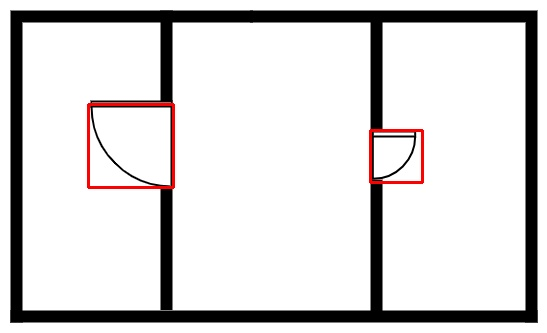
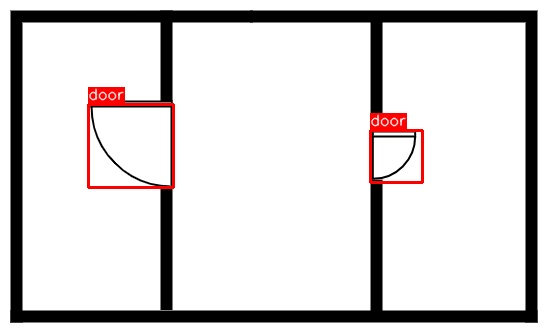
Add class name on image

Changed region(s): [[0.1554, 0.2402, 0.2486, 0.3303], [0.6527, 0.3303, 0.7459, 0.3904]]

diff --git a/fengshui/assessment.py b/fengshui/assessment.py
@@ -42,15 +42,17 @@ OBSTACLE_THRESHOLD = 0.5 # 50%
 from overlap.overlap import overlap_rate
 OVERLAP_THRESHOLD = 0.5 # 50% overlap range
 
+# 這裡應該要是 list 對應 oto result 主程式要再修正
 def show_analy_results(result: Dict[str, List]):
 
-    # items, rate, full_coverage
     for res in result['overlap_result']:
-       print(res)
+        # Print the names of the two overlapping items
+        print("Item 1 name: {}, Item 2 name: {}".format(res['items'][0].name, res['items'][1].name))
 
     # items, points_line, bin_image_np_arrary, rate
     for res in result['obstacle_result']:
-       print(res)
+        print("Item 1 name: {}, Item 2 name: {}".format(res['items'][0].name, res['items'][1].name))
+
        
 
 def clean_folder(folder_path: Path):
@@ -156,6 +158,8 @@ def save_obstacle_to_jpg(obstacle_results: Dict[str, any], result: Results):
     file_name = 'obstacle_' + sub_name + str(result_path.name)
 
     save_to_image(image= image, file_name= file_name)
+
+    return file_name
 
 def filter_overlap_rate(overlap_results: List[Dict[str, any]]) -> List[Dict[str, any]]:
     """
@@ -344,15 +348,18 @@ def total_object_to_object(objects_name: List[str], result: Results, orient_chec
         obstacle_results.append(obstacle_result)
     
     pass_obstacle_results = filter_obstacle_rate(obstacle_results=obstacle_results)
+
+    image_result_dir = None
     if len(pass_obstacle_results) > 0:
         save_obstacle_to_jpg(obstacle_results= pass_obstacle_results, result=result)
 
-    all_result = {
+    all_results = {
         'overlap_result'  : have_overlap_list,
-        'obstacle_result' : pass_obstacle_results
+        'obstacle_result' : pass_obstacle_results,
+        'image_path' : image_result_dir
     }
 
-    return all_result 
+    return all_results
         
 def run():
     """
@@ -375,12 +382,14 @@ def run():
     
     # Object to object analysis
     door_to_door = ['door']
-    window_to_window = ['window']
+    # window_to_window = ['window']
     entrance_to_kitchen = ['entrance', 'kitchen']
+
     orient_check = {'entrance': False, 'kitchen': False, 'door': True, 'window':True}
+
     for result in results:
         door_results = total_object_to_object(objects_name=door_to_door, result=result, orient_check=orient_check)
-        #window_results = total_object_to_object(objects_name=window_to_window, result=result, orient_check=orient_check)
+        # window_results = total_object_to_object(objects_name=window_to_window, result=result, orient_check=orient_check)
         entr_results = total_object_to_object(objects_name=entrance_to_kitchen, result=result, orient_check=orient_check)
 
     show_analy_results(door_results)

diff --git a/draw/draw_item.py b/draw/draw_item.py
@@ -11,6 +11,7 @@ sys.path.insert(0, str(ROOT))   # for import moduls
 
 from fengshui.item import Item
 
+
 def draw_bounding_boxes(image_path: Optional[Path] = None, 
                         image: Optional[np.ndarray] = None, 
                         color: Tuple[int, int, int] = (0, 0, 255), 
@@ -47,6 +48,25 @@ def draw_bounding_boxes(image_path: Optional[Path] = None,
 
     # Draw the rectangle on the image
     cv2.rectangle(image, start_point, end_point, color, thickness)
+
+    # Add background rectangle for the text
+    font = cv2.FONT_HERSHEY_SIMPLEX
+    font_scale = 0.5
+    font_thickness = 1
+    text_color = (255, 255, 255)
+    text = item.name
+
+    # Calculate text size
+    (text_width, text_height), baseline = cv2.getTextSize(text, font, font_scale, font_thickness)
+    background_start_point = (start_point[0], start_point[1] - text_height - 5)
+    background_end_point = (start_point[0] + text_width, start_point[1])
+
+    # Draw background rectangle
+    cv2.rectangle(image, background_start_point, background_end_point, color, thickness=cv2.FILLED)
+
+    # Add text on top of the rectangle
+    text_position = (start_point[0], start_point[1] - 5)
+    cv2.putText(image, text, text_position, font, font_scale, text_color, font_thickness, lineType=cv2.LINE_AA)
 
     return image
 

diff --git a/test/test_bina.py b/test/test_bina.py
@@ -12,6 +12,7 @@ ROOT = FILE.parents[1]
 sys.path.insert(0, str(ROOT))  # for import modules
 
 from obstacle.obstacle import floor_plan_binarization
+from obstacle.obstacle import apply_white_boxes
 
 IMAGES_PATH = ROOT / 'test' / 'val_images'
 SAVE_BIN_DIR = ROOT / 'test' / 'bin_images'
@@ -28,6 +29,7 @@ class TestBina(unittest.TestCase):
     def test_binarization(self):
         for image_path in IMAGES_PATH.glob('*.*'):  # Adjust the pattern if necessary
             with self.subTest(image=image_path):
+                
                 # Run the binarization process
                 bin_image = floor_plan_binarization(image_path=image_path)
 

diff --git a/obstacle/obstacle.py b/obstacle/obstacle.py
@@ -172,7 +172,7 @@ def items_obstacle_detect(image_path: Path, items: List[Item]) -> Dict[str, any]
     if items[0].orientation != items[1].orientation:
         raise ValueError("Items do not have the same orientation")
 
-    # Clean Items area to white
+    # Clean Items area to white"
     floor_plan = apply_white_boxes(floor_plan=floor_plan, items=items)
 
     # Check obstacle
